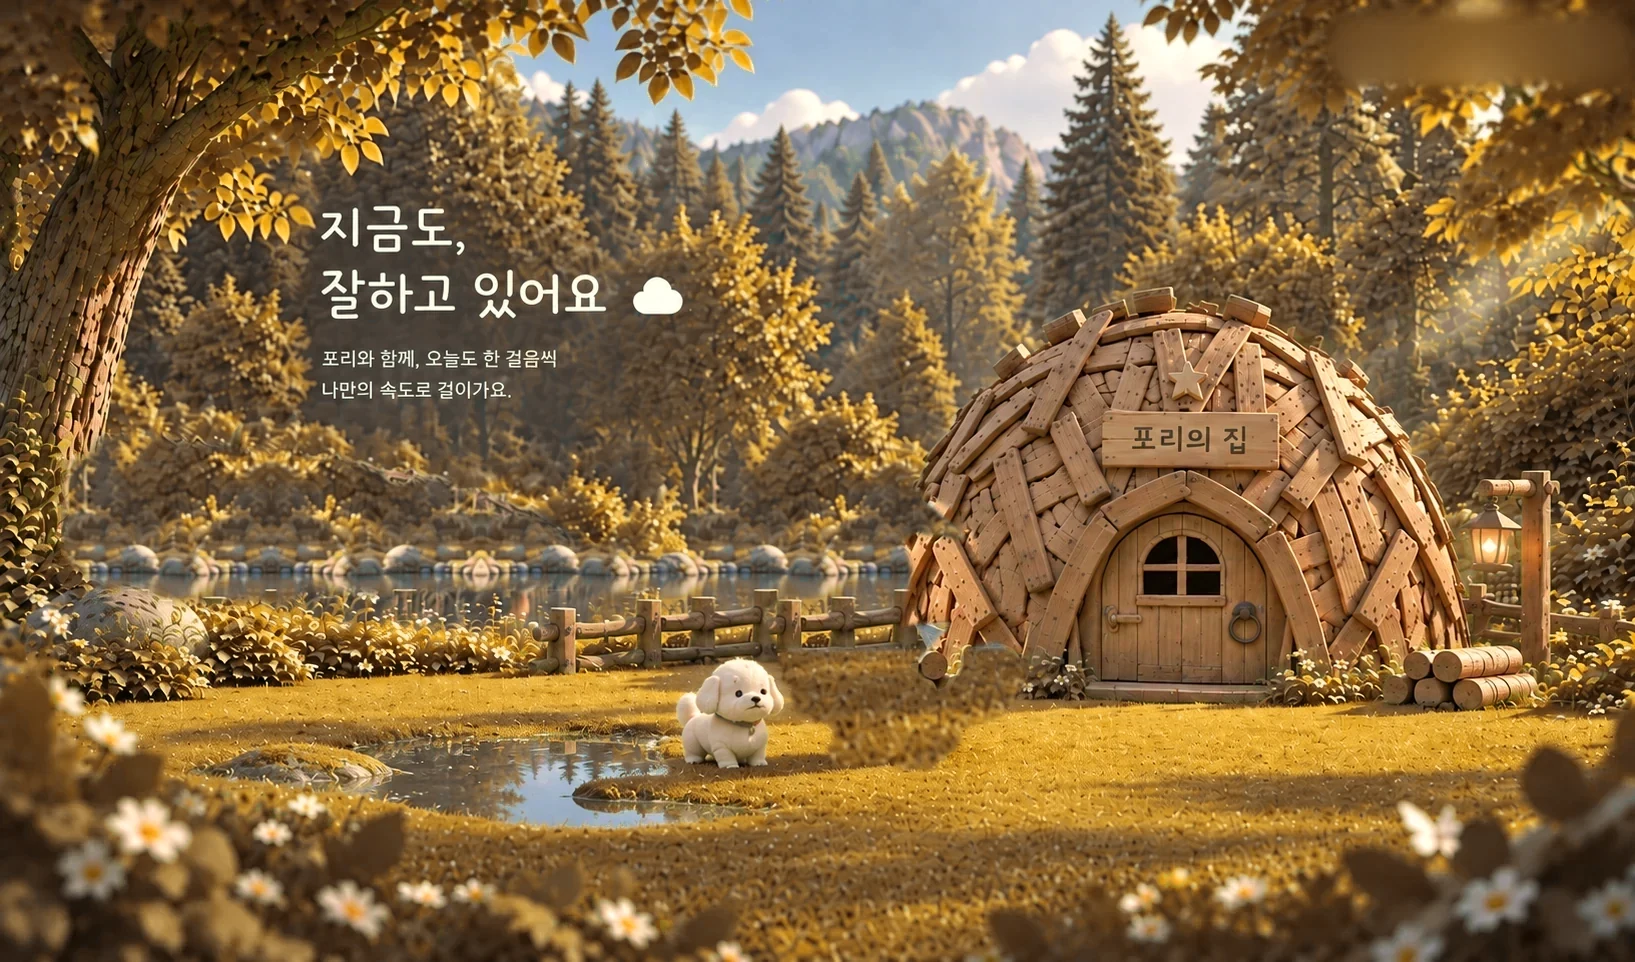
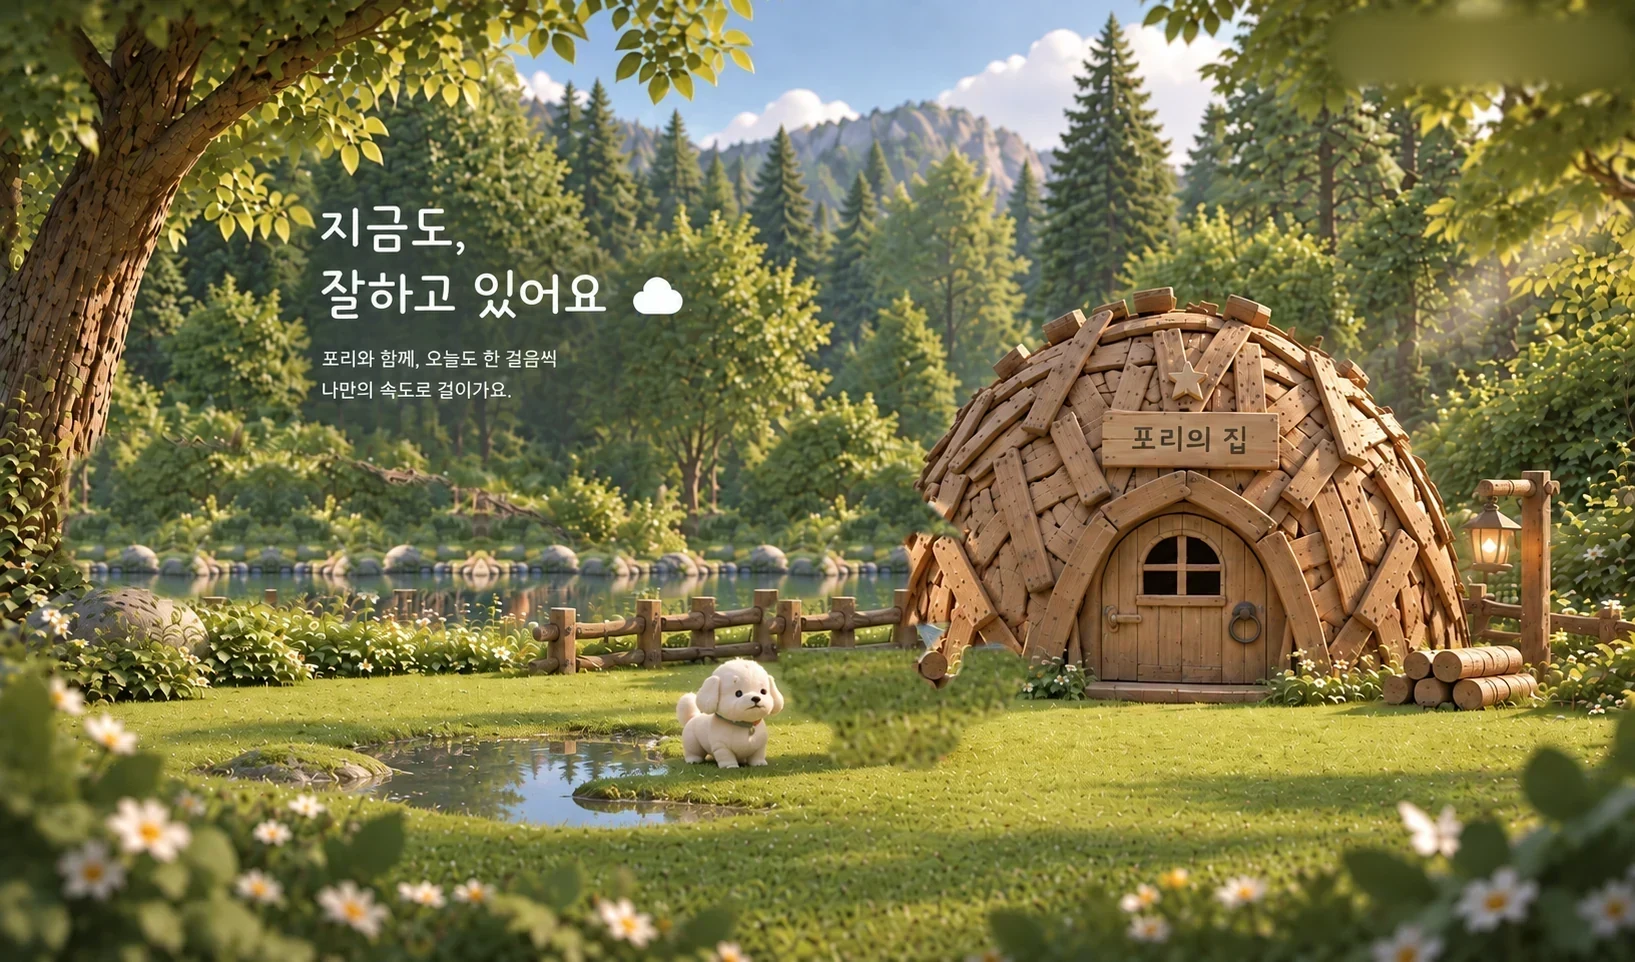
revert: 메인 배경을 원래 초록 숲으로 되돌린다
가을로 물들인 2095618 중 배경 관련만 되돌린다.

  · forest.webp / forest.jpg — 343fe8a 시점(초록, 버튼 지운 뒤)으로
  · --forest, 그림자 색, 로그아웃 칩 — 초록 톤으로

되돌리지 않은 것: 그림에서 로그인/회원가입 버튼을 뺀 것(30bb84c)과
앱 화면의 팔레트(343fe8a)는 그대로 둔다. 배경만 되돌리라는 말씀이었다.

diff --git a/public/css/scene.css b/public/css/scene.css
@@ -10,7 +10,7 @@
  * ========================================================================== */
 
 :root{
-  --forest:#2E1D0E;   /* 가을 숲 — 그림 밖으로 비어져도 화면과 이어진다 */
+  --forest:#112615;   /* 숲 그림 밖으로 비어져도 화면과 이어진다 */
   --ink:#24331f;
   --muted:#64705d;
   --ring:0 0 0 2px rgba(255,255,255,.9), 0 12px 34px rgba(0,0,0,.18);
@@ -309,7 +309,7 @@ body.show-map .label{opacity:1;transform:translateY(0)}
 .scenery .dam{position:absolute;display:block;
   /* 그림자가 없으면 공중에 뜬 스티커로 보인다.
      drop-shadow 는 실루엣을 따라가므로 잔가지 결까지 살아난다. */
-  filter:drop-shadow(0 5px 6px rgba(56,34,14,.42)) drop-shadow(0 1px 1px rgba(56,34,14,.3))}
+  filter:drop-shadow(0 5px 6px rgba(24,38,22,.42)) drop-shadow(0 1px 1px rgba(24,38,22,.3))}
 .scenery .dam-branch{left:-6.50%;top:41.58%;width:35.96%;height:26.40%}
 .scenery .dam-built {left:-6.50%;top:43.76%;width:27.95%;height:24.22%}
 body[data-goal="y"]:not([data-dam="over"]) .dam-branch{display:none}
@@ -396,9 +396,9 @@ body[data-auth="in"] .auth{display:none}
 /* 둘이 붙어 하나의 알약이 된다 */
 .me .nm   {border-radius:999px 0 0 999px;background:#fff;color:var(--ink)}
 /* 반투명이면 아래 흰 버튼이 비쳐 올라온다 — 불투명해야 한다 */
-.me button{border-radius:0 999px 999px 0;background:#5C3A16;color:#fff;
+.me button{border-radius:0 999px 999px 0;background:#16250F;color:#fff;
   border:0;cursor:pointer;transition:.14s}
-.me button:hover{background:#42280E}
+.me button:hover{background:#0B1606}
 
 /* ───────────────────────── 도구 · 안내 ───────────────────────── */
 .tools{position:absolute;left:20px;top:20px;z-index:30;display:flex;gap:9px}
@@ -653,7 +653,7 @@ body[data-dam="over"] .fauna .f-pori{
   padding:11px 15px;border-radius:15px;
   background:rgba(255,255,255,.95);color:#4B2A16;
   font-size:13px;line-height:1.5;font-weight:700;letter-spacing:-.2px;
-  filter:drop-shadow(0 6px 16px rgba(56,34,14,.30));
+  filter:drop-shadow(0 6px 16px rgba(24,38,22,.30));
   animation:warnIn .5s ease-out 1.25s both
 }
 .damwarn b{color:#C9553F}
